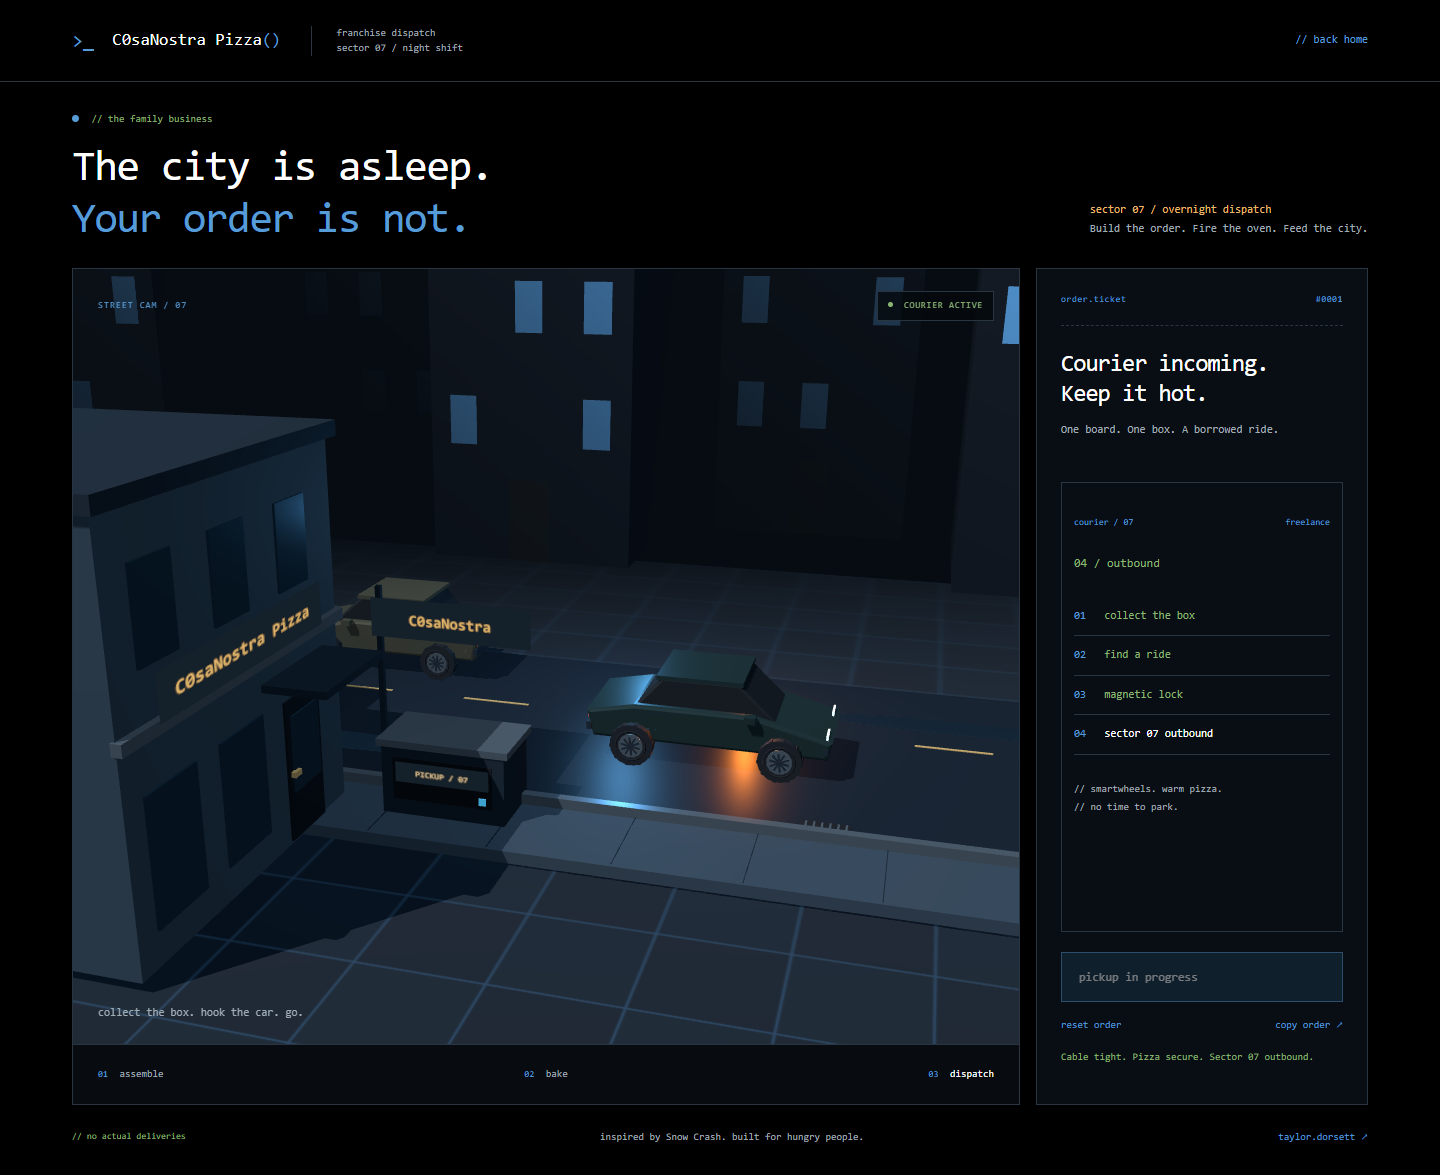
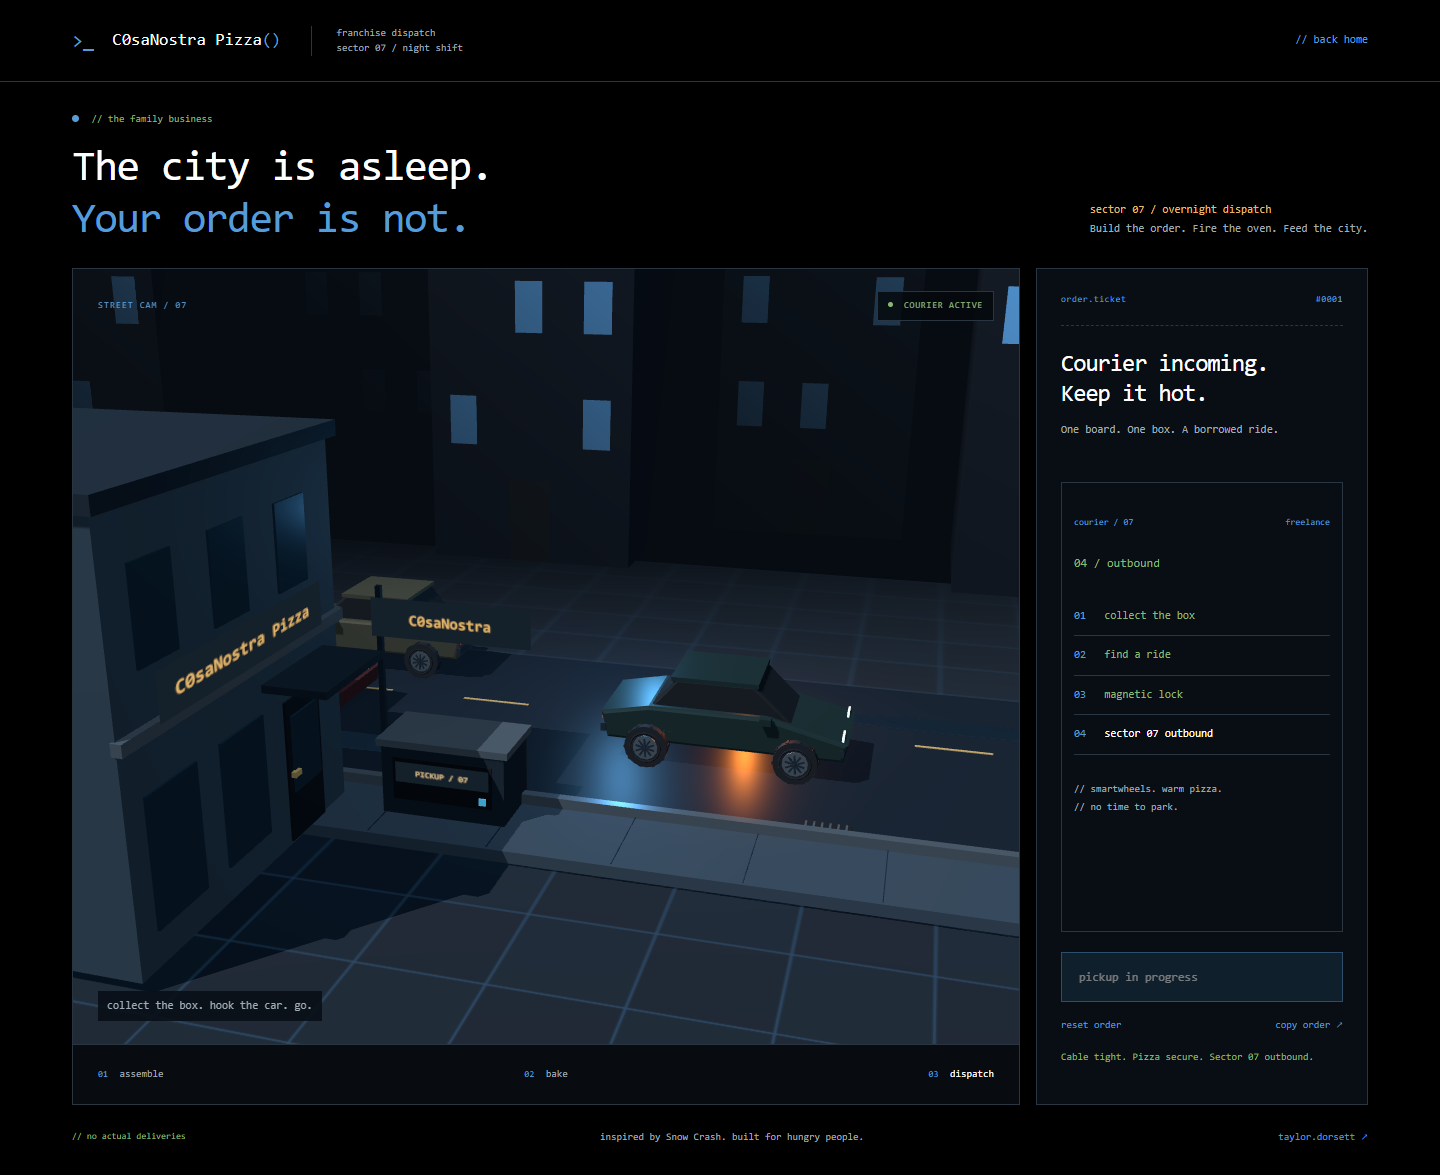
build an italian kitchen

diff --git a/kitchen-room.js b/kitchen-room.js
@@ -1,0 +1,117 @@
+import * as THREE from './vendor/three.module.js';
+import { createGeometry } from './geometry.js';
+
+// The room shares the pizza's coordinate system: the worktop is just below y=0.
+// It belongs to the kitchen group so none of it follows the courier outside.
+export function createKitchenRoom(root) {
+  const { mesh, box } = createGeometry(root);
+  const material = (color) => new THREE.MeshStandardMaterial({ color, roughness: 0.85 });
+  const plaster = material('#d4bc91');
+  const wood = material('#67442d');
+  const oak = material('#9b7047');
+  const stone = material('#d9c9a9');
+  const copper = new THREE.MeshStandardMaterial({
+    color: '#b77846',
+    metalness: 0.55,
+    roughness: 0.4
+  });
+  const ceramic = material('#eee1bd');
+
+  const tileCanvas = document.createElement('canvas');
+  tileCanvas.width = tileCanvas.height = 256;
+  const ctx = tileCanvas.getContext('2d');
+  ctx.fillStyle = '#785643';
+  ctx.fillRect(0, 0, 256, 256);
+  for (let row = 0; row < 2; row++)
+    for (let col = 0; col < 2; col++) {
+      ctx.fillStyle = (row + col) % 2 ? '#a96847' : '#b77a54';
+      ctx.fillRect(col * 128 + 3, row * 128 + 3, 122, 122);
+    }
+  const tiles = new THREE.CanvasTexture(tileCanvas);
+  tiles.colorSpace = THREE.SRGBColorSpace;
+  tiles.wrapS = tiles.wrapT = THREE.RepeatWrapping;
+  tiles.repeat.set(7, 7);
+  const floor = mesh(
+    new THREE.PlaneGeometry(18, 18),
+    new THREE.MeshStandardMaterial({ map: tiles, roughness: 1 })
+  );
+  floor.rotation.x = -Math.PI / 2;
+  floor.position.set(0, -2.5, -1);
+  box(14, 7.4, 0.25, plaster, root, 0, 1.2, -6.8);
+  box(0.25, 7.4, 12, plaster, root, -7, 1.2, -0.9);
+  box(14, 0.2, 0.18, wood, root, 0, -2.25, -6.6);
+  box(0.18, 0.2, 12, wood, root, -6.8, -2.25, -0.9);
+
+  // Green glazed backsplash with a cream border around the oven and shelves.
+  box(13.7, 2.25, 0.08, ceramic, root, 0, 0.6, -6.64);
+  const glaze = new THREE.MeshStandardMaterial({ color: '#536b50', roughness: 0.25 });
+  for (let row = 0; row < 4; row++)
+    for (let col = 0; col < 23; col++) {
+      box(0.55, 0.48, 0.04, glaze, root, -6.55 + col * 0.59, -0.15 + row * 0.52, -6.58);
+    }
+  box(14, 0.15, 0.2, wood, root, 0, 4.7, -6.6);
+
+  // A real prep counter, with a stone top and cabinets reaching the tiled floor.
+  box(9.3, 0.28, 7, stone, root, 0, -0.4, 0.7);
+  box(8.7, 1.85, 6.45, wood, root, 0, -1.45, 0.7);
+  for (const x of [-3.25, -1.08, 1.08, 3.25]) {
+    box(1.95, 1.45, 0.07, oak, root, x, -1.35, 3.96);
+    box(0.34, 0.07, 0.08, copper, root, x, -0.82, 4.02);
+  }
+  box(12.5, 0.28, 3.3, stone, root, 0, -0.4, -4.65);
+  box(12, 1.9, 2.8, wood, root, 0, -1.45, -4.65);
+  for (const x of [-5, -3, -1, 1, 3, 5]) {
+    box(1.8, 1.5, 0.06, oak, root, x, -1.35, -3.22);
+    box(0.3, 0.07, 0.08, copper, root, x, -0.8, -3.16);
+  }
+
+  // Open shelves, flour jars, plates and olive oil beside the oven.
+  for (const y of [2.25, 3.55]) {
+    box(3.3, 0.14, 0.8, oak, root, 4.3, y, -6.1);
+    for (const x of [3.1, 5.5]) box(0.12, 0.5, 0.5, wood, root, x, y - 0.25, -6.25);
+  }
+  for (let i = 0; i < 4; i++) {
+    const jar = mesh(
+      new THREE.CylinderGeometry(0.22, 0.22, 0.55, 16),
+      i % 2 ? ceramic : material('#ae986d')
+    );
+    jar.position.set(3.2 + i * 0.7, 2.6, -6.05);
+    box(0.46, 0.07, 0.46, wood, root, 3.2 + i * 0.7, 2.91, -6.05);
+  }
+  for (let i = 0; i < 5; i++) {
+    const plate = mesh(new THREE.CylinderGeometry(0.45, 0.45, 0.045, 24), ceramic);
+    plate.position.set(3.4, 3.65 + i * 0.05, -6.05);
+  }
+  const oil = material('#596335');
+  for (const x of [4.6, 5.25]) {
+    const bottle = mesh(new THREE.CylinderGeometry(0.17, 0.2, 0.62, 12), oil);
+    bottle.position.set(x, 3.93, -6.05);
+    box(0.13, 0.28, 0.13, oil, root, x, 4.35, -6.05);
+    box(0.2, 0.25, 0.025, ceramic, root, x, 3.95, -5.86);
+  }
+
+  box(2.7, 0.07, 0.12, wood, root, -4.6, 2.9, -6.4);
+  for (const x of [-5.45, -4.6, -3.75]) {
+    box(0.07, 0.62, 0.07, copper, root, x, 2.52, -6.27);
+    const pan = mesh(new THREE.CylinderGeometry(0.34, 0.32, 0.12, 24), copper);
+    pan.rotation.x = Math.PI / 2;
+    pan.position.set(x, 1.95, -6.22);
+  }
+
+  // A window in the side wall gives the room an outside edge without exposing
+  // the city floor that belongs to the delivery scene.
+  const night = new THREE.MeshStandardMaterial({
+    color: '#263f4b',
+    emissive: '#263f4b',
+    emissiveIntensity: 0.35
+  });
+  box(0.08, 2.4, 2.5, wood, root, -6.8, 2, -2.7);
+  box(0.08, 2.15, 2.25, night, root, -6.74, 2, -2.7);
+  box(0.12, 2.2, 0.08, oak, root, -6.68, 2, -2.7);
+  box(0.12, 0.08, 2.3, oak, root, -6.68, 2, -2.7);
+  box(0.6, 0.12, 2.7, stone, root, -6.55, 0.85, -2.7);
+
+  const warmLight = new THREE.PointLight('#ffd89c', 60, 18, 2);
+  warmLight.position.set(1, 5, 2);
+  root.add(warmLight);
+}

diff --git a/kitchen.js b/kitchen.js
@@ -1,14 +1,16 @@
 import * as THREE from './vendor/three.module.js';
 import { createGeometry } from './geometry.js';
+import { createKitchenRoom } from './kitchen-room.js';
 export function createKitchen(scene) {
   const root = new THREE.Group();
   scene.add(root);
+  createKitchenRoom(root);
   const { mesh, box, ball } = createGeometry(root);
   const material = (color, extra = {}) =>
     new THREE.MeshStandardMaterial({ color, roughness: 0.8, ...extra });
   const mats = {
-    wood: material('#364753', { metalness: 0.65, roughness: 0.4 }),
-    edge: material('#192833'),
+    wood: material('#b88e59'),
+    edge: material('#79532f'),
     crust: material('#e9b96b'),
     dough: material('#edc986'),
     cheese: material('#f4d575', { roughness: 0.52 }),
@@ -24,23 +26,20 @@ export function createKitchen(scene) {
     mozzarella: material('#fff0c7'),
     sausage: material('#815335'),
     chicken: material('#e4be83'),
-    brick: material('#273747', { metalness: 0.35 }),
-    grout: material('#485d70', { metalness: 0.5 }),
+    brick: material('#a85e3d'),
+    grout: material('#cfb997'),
     oven: material('#17222d'),
     black: material('#201f19'),
     coal: material('#382a21'),
     char: material('#96603a'),
-    cream: material('#8999a5'),
+    cream: material('#e9d8b4'),
     metal: material('#79796b', { metalness: 0.3 }),
-    towel: material('#243d51')
+    towel: material('#7d3730')
   };
-  const neon = material('#569cd6', { emissive: '#569cd6', emissiveIntensity: 2 });
-  box(4.4, 0.045, 0.045, neon, root, 0, 2.37, -4.0);
-  box(0.045, 0.035, 8, neon, root, -5, -0.28, -1.8);
-  box(0.045, 0.035, 8, neon, root, 5, -0.28, -1.8);
   const rimLight = new THREE.PointLight('#569cd6', 35, 16, 2);
   rimLight.position.set(-3, 3, -5);
   scene.add(rimLight);
+  rimLight.visible = false;
 
   // The brick oven is made from individual blocks around an arched opening.
   const oven = new THREE.Group();
@@ -79,7 +78,7 @@ export function createKitchen(scene) {
   signCanvas.width = 768;
   signCanvas.height = 128;
   const signContext = signCanvas.getContext('2d');
-  signContext.fillStyle = '#080d13';
+  signContext.fillStyle = '#493021';
   signContext.fillRect(0, 0, 768, 128);
   signContext.fillStyle = '#e8b96c';
   signContext.font = 'bold 66px monospace';
@@ -310,6 +309,7 @@ export function createKitchen(scene) {
     setCooked,
     setVisible(visible) {
       root.visible = visible;
+      rimLight.visible = !visible;
     }
   };
 }

diff --git a/order.js b/order.js
@@ -6,7 +6,16 @@ import { bindSharing } from './sharing.js';
 const $ = (id) => document.getElementById(id);
 // Order state belongs here. The view renders it, the kitchen owns its meshes,
 // and the courier owns a deterministic delivery timeline.
-export function startOrder({ host, scene, camera, renderer, fireLight, frameCamera, kitchen }) {
+export function startOrder({
+  host,
+  scene,
+  camera,
+  renderer,
+  fireLight,
+  frameCamera,
+  kitchen,
+  city
+}) {
   const reduceMotion = matchMedia('(prefers-reduced-motion: reduce)').matches;
   const { carriage, pizza, slices, flames, makeTopping, sliceIndex, setCooked } = kitchen;
   const courier = createCourier(scene);
@@ -17,6 +26,7 @@ export function startOrder({ host, scene, camera, renderer, fireLight, frameCame
     courierPhase = '';
     delete document.body.dataset.courierPhase;
     kitchen.setVisible(true);
+    city.setVisible(false);
     frameCamera(false);
   }
   let toppings = [],
@@ -38,6 +48,7 @@ export function startOrder({ host, scene, camera, renderer, fireLight, frameCame
     courierPhase = '';
     frameCamera(true);
     kitchen.setVisible(false);
+    city.setVisible(true);
     courier.start();
     update();
     say('Courier at the pickup bay.');

diff --git a/city.js b/city.js
@@ -2,7 +2,10 @@ import * as THREE from './vendor/three.module.js';
 import { createGeometry } from './geometry.js';
 // Distances use roughly one metre per unit, matching the courier and cars.
 export function createCity(scene) {
-  const { mesh, box } = createGeometry(scene);
+  const root = new THREE.Group();
+  root.visible = false;
+  scene.add(root);
+  const { mesh, box } = createGeometry(root);
   const material = (color) => new THREE.MeshStandardMaterial({ color, roughness: 0.8 });
   const doorMaterial = material('#201f19');
   // A subtle tiled countertop, drawn here so the kitchen doesn't need image downloads.
@@ -33,7 +36,7 @@ export function createCity(scene) {
 
   // Full sized city blocks behind the kitchen and delivery street.
   const city = new THREE.Group();
-  scene.add(city);
+  root.add(city);
   const buildingMat = material('#101b28');
   const windowMat = new THREE.MeshStandardMaterial({
     color: '#569cd6',
@@ -53,4 +56,9 @@ export function createCity(scene) {
       }
     box(1.2, 2.4, 0.025, doorMaterial, city, x, 0.9, z + 3.02);
   }
+  return {
+    setVisible(visible) {
+      root.visible = visible;
+    }
+  };
 }

diff --git a/app.js b/app.js
@@ -5,6 +5,6 @@ import { startOrder } from './order.js';
 
 const host = document.getElementById('scene');
 const stage = createScene(host);
-createCity(stage.scene);
+const city = createCity(stage.scene);
 const kitchen = createKitchen(stage.scene);
-startOrder({ host, ...stage, kitchen });
+startOrder({ host, ...stage, kitchen, city });

diff --git a/dispatch.css b/dispatch.css
@@ -89,6 +89,9 @@ h2 {
 }
 .scene-caption {
   color: #a0adb7;
+  background: #080e16e6;
+  padding: 7px 9px;
+  width: fit-content;
 }
 .drag-hint {
   color: var(--red);

diff --git a/build.js b/build.js
@@ -11,6 +11,7 @@ for (const file of [
   'city.js',
   'geometry.js',
   'kitchen.js',
+  'kitchen-room.js',
   'order.js',
   'order-view.js',
   'pizza-input.js',

diff --git a/README.md b/README.md
@@ -8,7 +8,7 @@ she has a magnetic wrist launcher, a courier bag, knee pads and a smartwheel boa
 
 reduced motion shows a still handoff instead of the moving chase.
 
-black background, monospace and the same syntax colors as my website. the kitchen sits in a city at night. the pizza is still pizza.
+black background, monospace and the same syntax colors as my website. inside the shop is a warm italian kitchen with tiled walls, stone counters, wood cabinets and a brick oven. the courier heads out into the city at night.
 
 pick a topping and tap the cheese. drag sideways to turn it, or use the arrow buttons. add a handful if you want less precision. the house special makes one for you.
 
@@ -51,19 +51,20 @@ npm run test:browser
 
 ## code layout
 
-| file             | job                                                         |
-| ---------------- | ----------------------------------------------------------- |
-| `app.js`         | put the scene, city, kitchen and order controller together  |
-| `scene.js`       | renderer, lighting, resize handling and camera framing      |
-| `city.js`        | ground and buildings at roughly one metre per unit          |
-| `geometry.js`    | small mesh helpers and shared sphere geometry               |
-| `kitchen.js`     | oven, pizza, toppings and cooked appearance                 |
-| `courier.js`     | street, courier, traffic and pickup animation               |
-| `order.js`       | order state, transitions, controls and frame loop           |
-| `order-view.js`  | ticket text, buttons and delivery steps                     |
-| `pizza-input.js` | pointer capture, turning and topping placement              |
-| `sharing.js`     | share dialog and clipboard fallback                         |
-| `recipe.js`      | recipe encoding and validation without browser dependencies |
+| file              | job                                                         |
+| ----------------- | ----------------------------------------------------------- |
+| `app.js`          | put the scene, city, kitchen and order controller together  |
+| `scene.js`        | renderer, lighting, resize handling and camera framing      |
+| `city.js`         | ground and buildings at roughly one metre per unit          |
+| `geometry.js`     | small mesh helpers and shared sphere geometry               |
+| `kitchen.js`      | oven, pizza, toppings and cooked appearance                 |
+| `kitchen-room.js` | kitchen walls, counters, shelves and room lighting          |
+| `courier.js`      | street, courier, traffic and pickup animation               |
+| `order.js`        | order state, transitions, controls and frame loop           |
+| `order-view.js`   | ticket text, buttons and delivery steps                     |
+| `pizza-input.js`  | pointer capture, turning and topping placement              |
+| `sharing.js`      | share dialog and clipboard fallback                         |
+| `recipe.js`       | recipe encoding and validation without browser dependencies |
 
 the normal order path is `prep → baking → baked → pickup → dispatched`. inspecting a slice toggles between `baked` and `sliced`. reset returns to `prep`, including during baking or pickup. replay starts another pickup with the same pizza.
 
